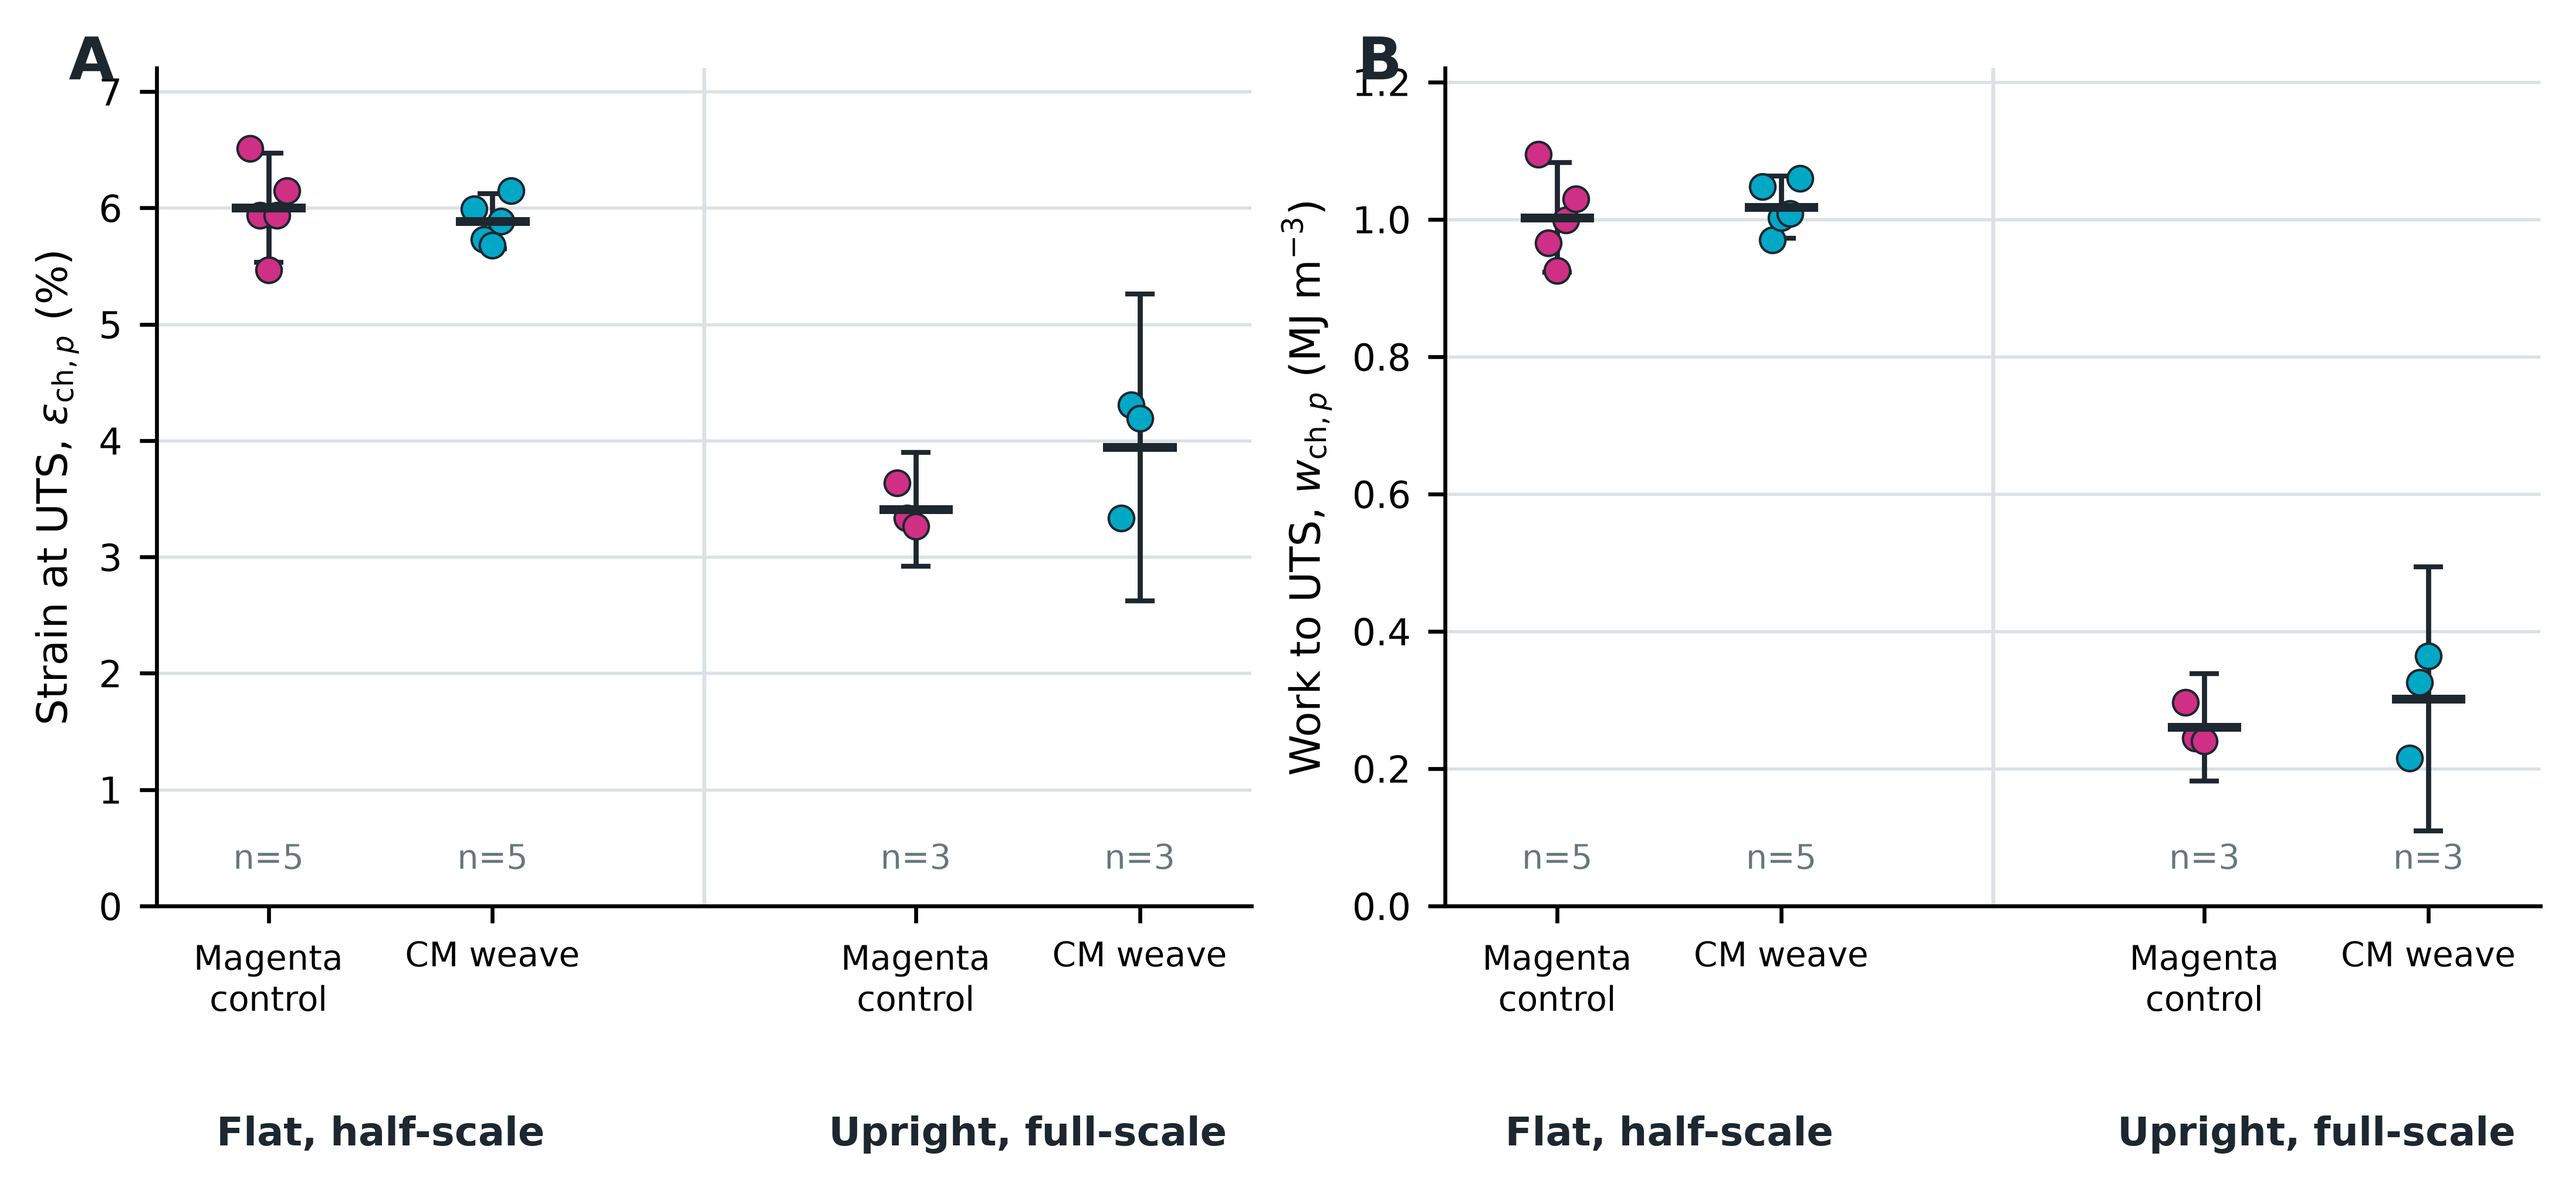
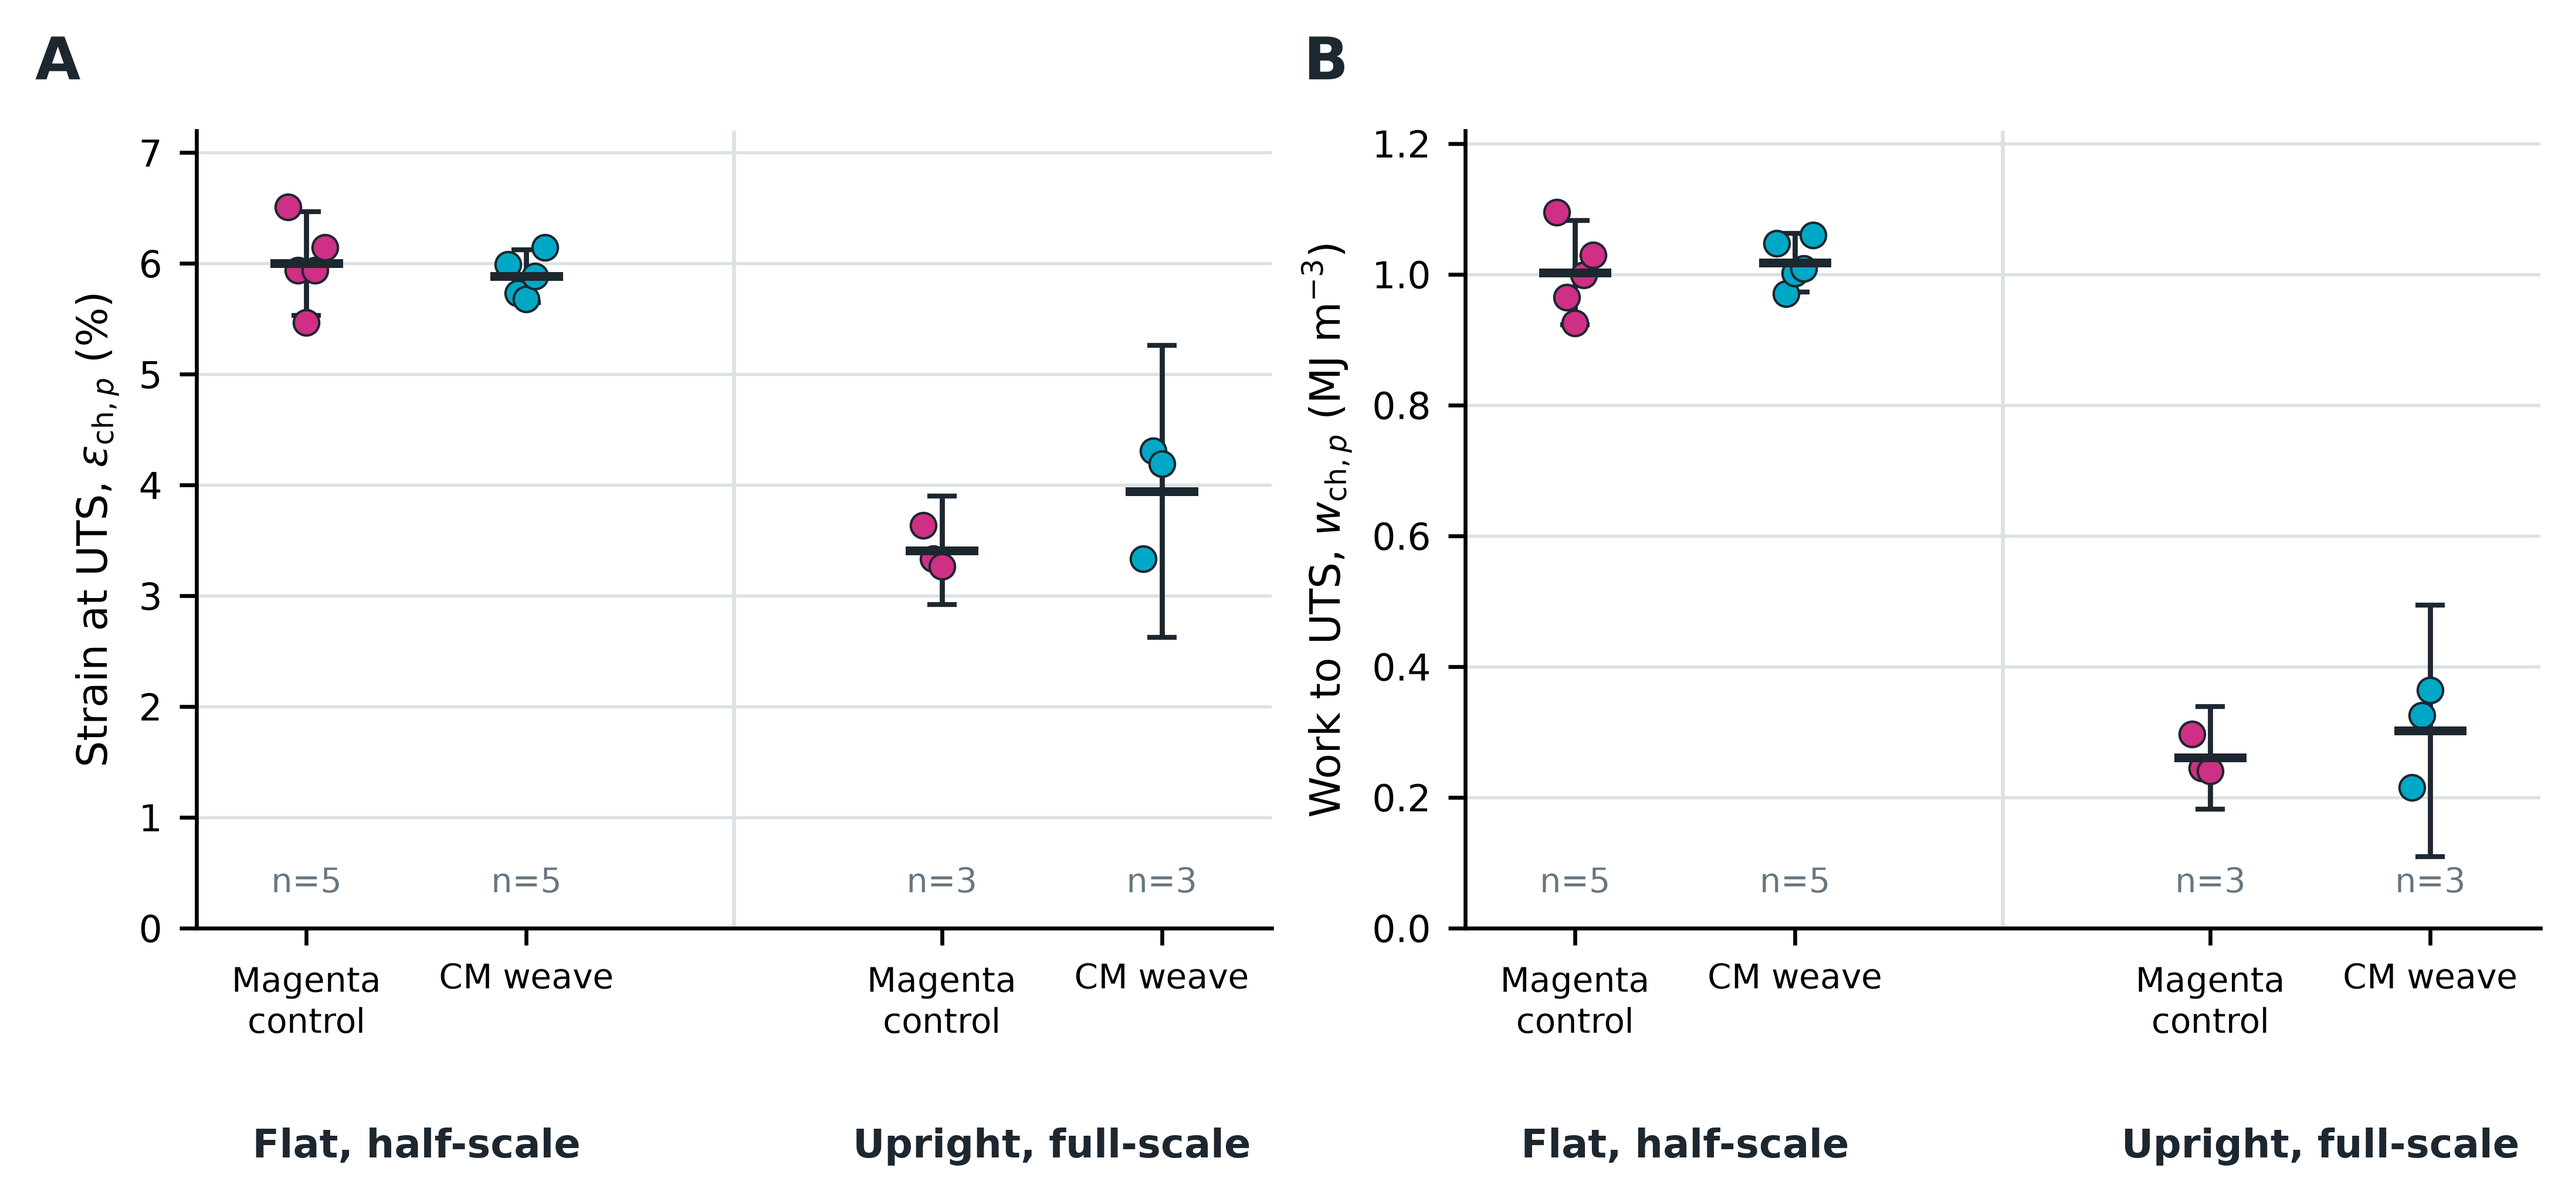
Polish supplementary tensile endpoint figure

diff --git a/analysis/generate_tensile_screen.py b/analysis/generate_tensile_screen.py
@@ -238,10 +238,16 @@ def primary_group(specimens: Iterable[Specimen], orientation: str, condition: st
     ]
 
 
-def add_panel_label(axis: plt.Axes, letter: str) -> None:
+def add_panel_label(
+    axis: plt.Axes,
+    letter: str,
+    *,
+    x: float = -0.08,
+    y: float = 1.04,
+) -> None:
     axis.text(
-        -0.08,
-        1.04,
+        x,
+        y,
         letter,
         transform=axis.transAxes,
         ha="left",
@@ -488,7 +494,7 @@ def plot_crosshead_endpoints(specimens: list[Specimen], output_path: Path) -> No
     )
     jitters = (-0.075, -0.035, 0.0, 0.035, 0.075)
     for axis, (letter, metric, ylabel, ylim) in zip(axes, metrics):
-        add_panel_label(axis, letter)
+        add_panel_label(axis, letter, x=-0.15, y=1.12)
         for (orientation, condition, _), x, color in zip(groups, positions, colors):
             group = primary_group(specimens, orientation, condition)
             values = [metric(specimen) for specimen in group]
